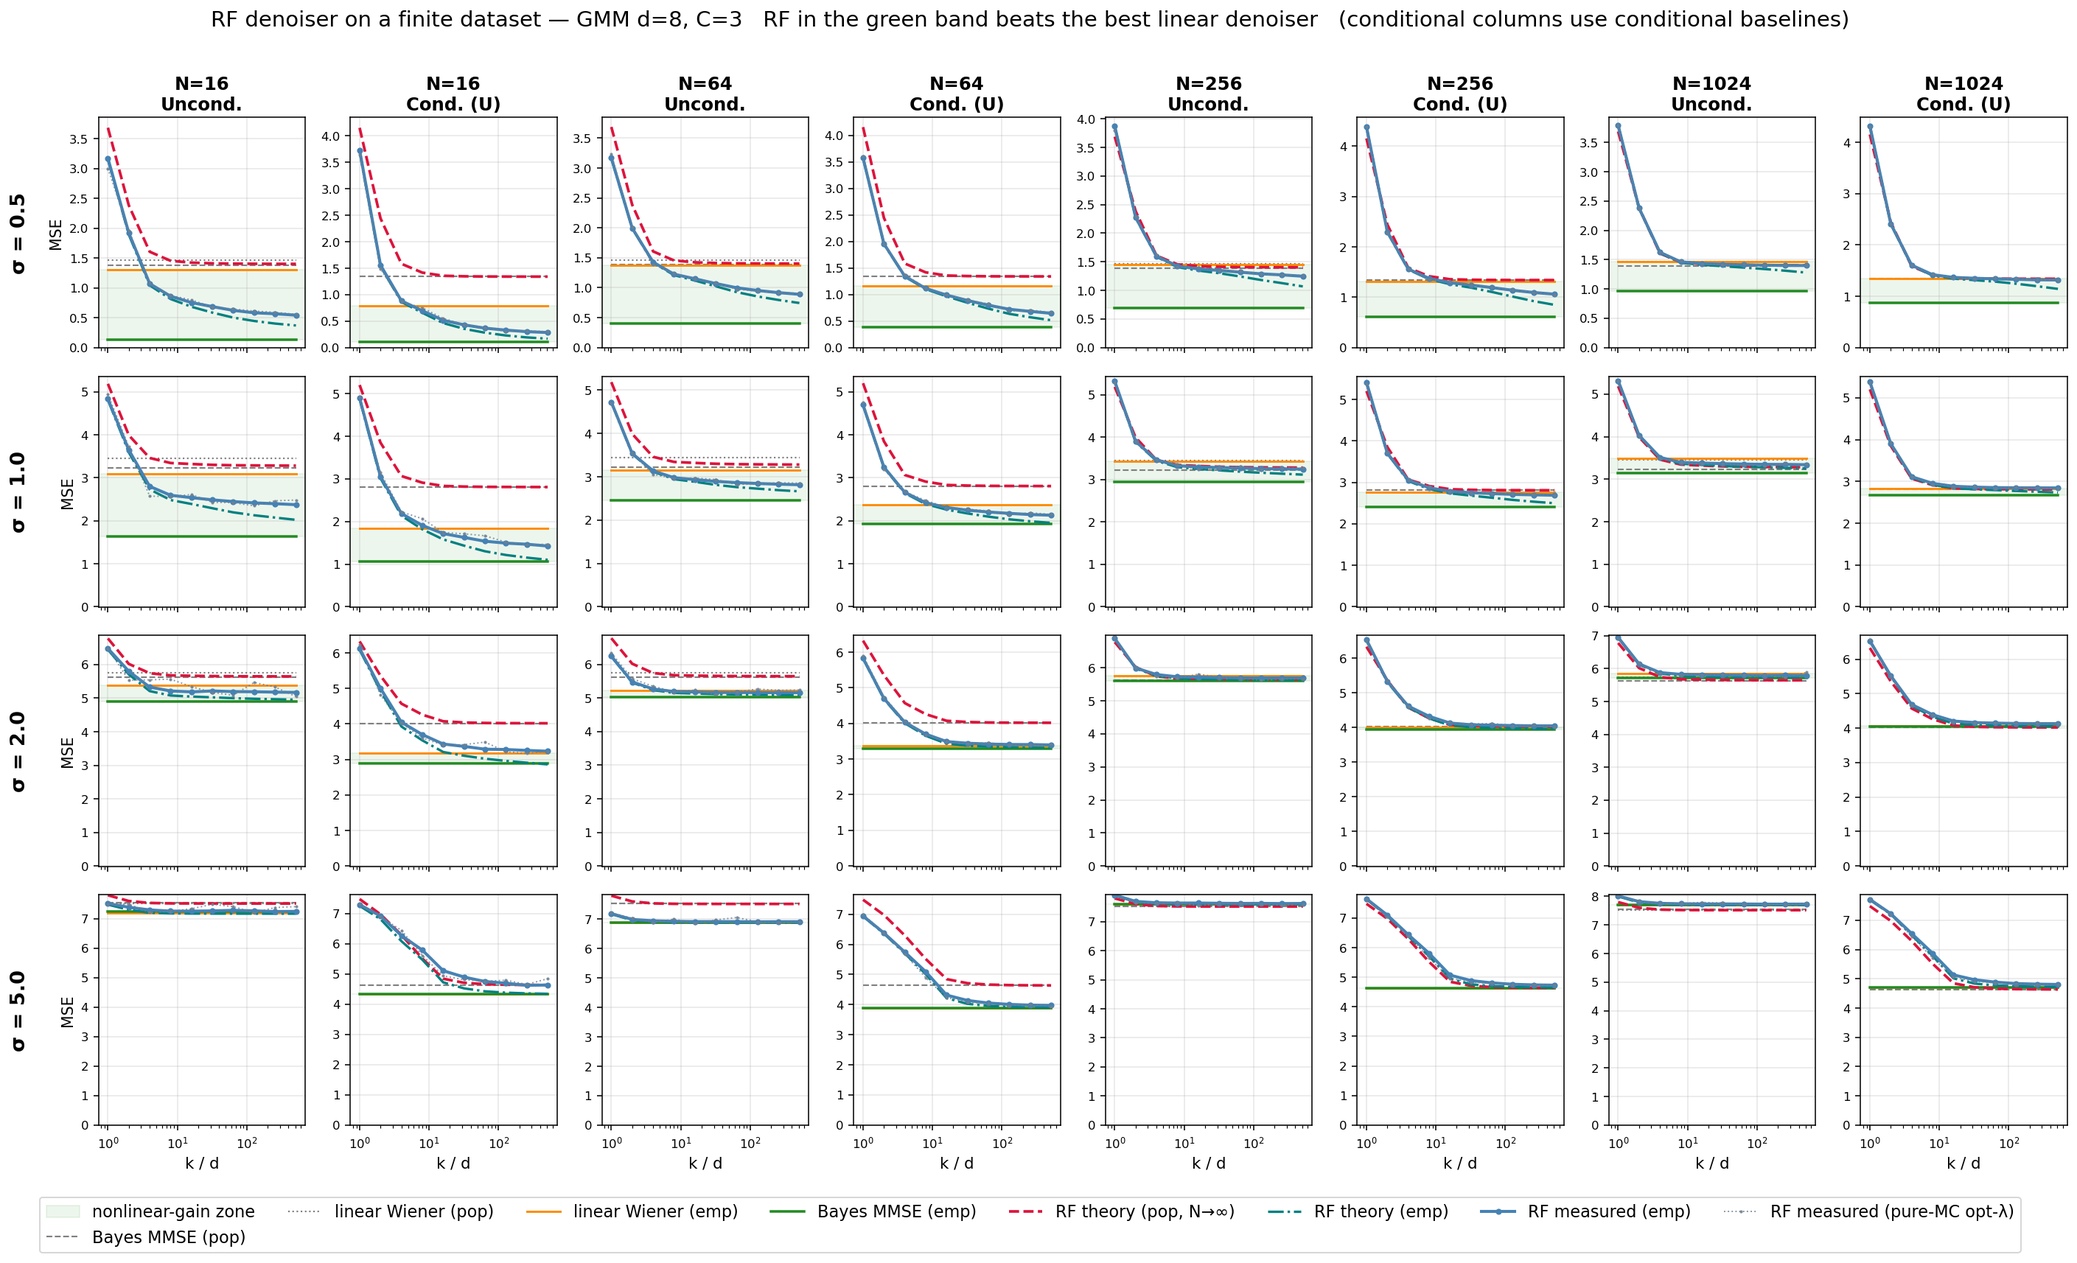
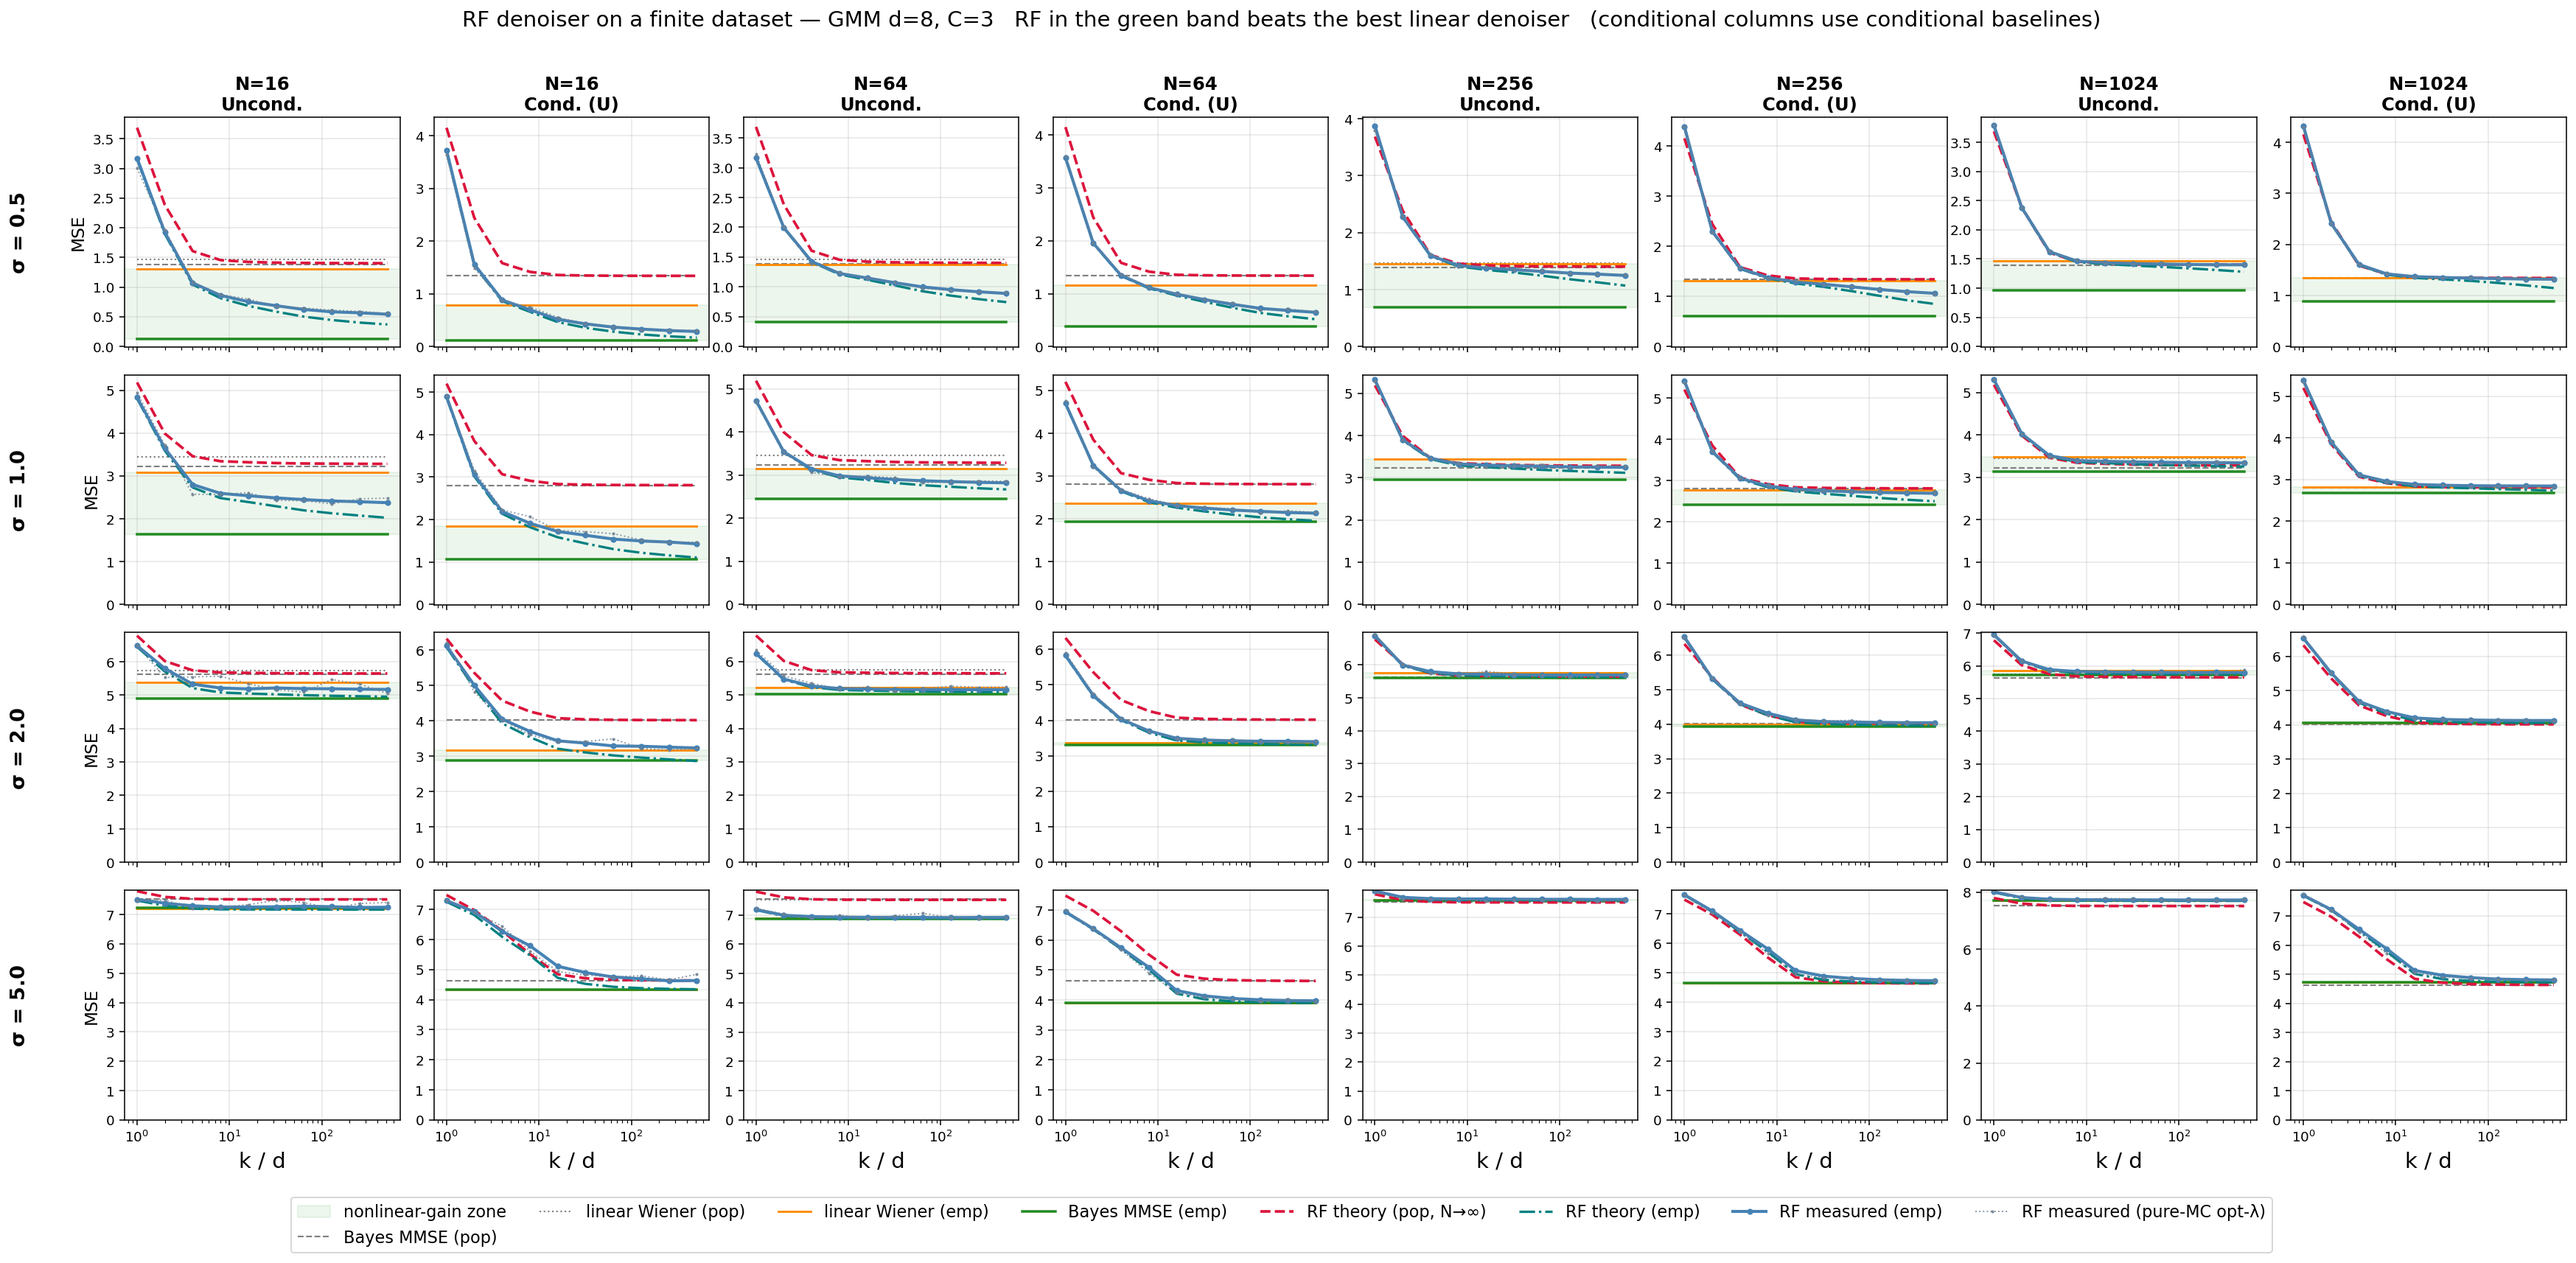
style(rf-gmm): wider panels and larger axis-label fonts in ALL_N
Per-column width 2.55 -> 3.15 in (figure 2818 -> 3495 px wide), so each subplot's
log-scale x-axis has room to breathe and the k/d decades are distinguishable.
Fonts: 'k / d' 11 -> 15, 'MSE' 10.5 -> 12, ticks 8.5 -> 9.5.
Regenerated d=8 and d=32.

diff --git a/scripts/rf_gmm_stitch.py b/scripts/rf_gmm_stitch.py
@@ -52,7 +52,7 @@ def main():
     aspect ratio while still showing every panel exactly once."""
     cols = [(N, uc) for N in N_TRAIN for uc in ('u', 'c')]
     nC, nR = len(cols), len(SIGMA_VALUES)
-    fig, axes = plt.subplots(nR, nC, figsize=(2.55 * nC, 3.05 * nR),
+    fig, axes = plt.subplots(nR, nC, figsize=(3.15 * nC, 3.05 * nR),
                              squeeze=False, sharex=True)
     fig.suptitle(f'RF denoiser on a finite dataset — GMM d={D}, C={N_CLASSES}   '
                  'RF in the green band beats the best linear denoiser   '
@@ -100,14 +100,14 @@ def main():
             handles.setdefault('RF measured (pure-MC opt-λ)', h)
 
             ax.set_xscale('log'); ax.set_ylim(bottom=-0.01)
-            ax.grid(True, alpha=.3); ax.tick_params(labelsize=8.5)
+            ax.grid(True, alpha=.3); ax.tick_params(labelsize=9.5)
             if r == 0:
                 ax.set_title(f"N={N}\n{'Uncond.' if uc == 'u' else 'Cond. (U)'}",
                              fontsize=12.5, fontweight='bold', pad=5)
             if r == nR - 1:
-                ax.set_xlabel('k / d', fontsize=11)
+                ax.set_xlabel('k / d', fontsize=15)
             if c == 0:
-                ax.set_ylabel('MSE', fontsize=10.5)
+                ax.set_ylabel('MSE', fontsize=12)
                 ax.text(-0.38, 0.5, f'σ = {sg}', transform=ax.transAxes, rotation=90,
                         va='center', ha='center', fontsize=14, fontweight='bold')
 
